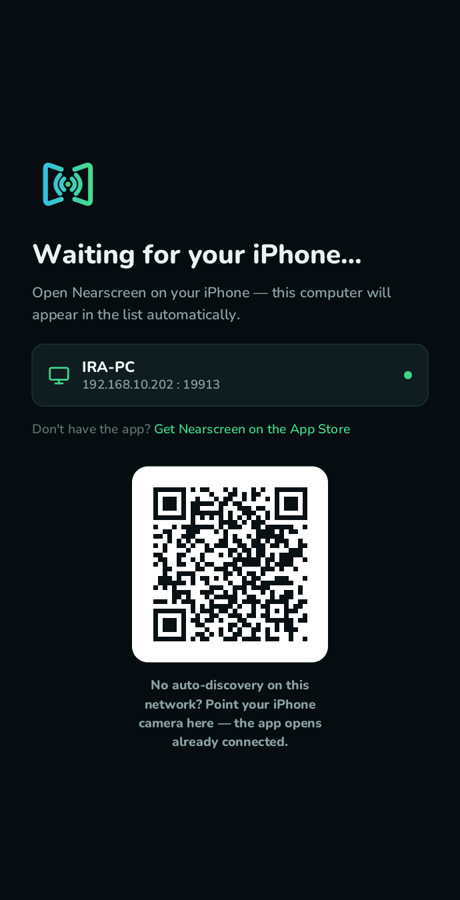
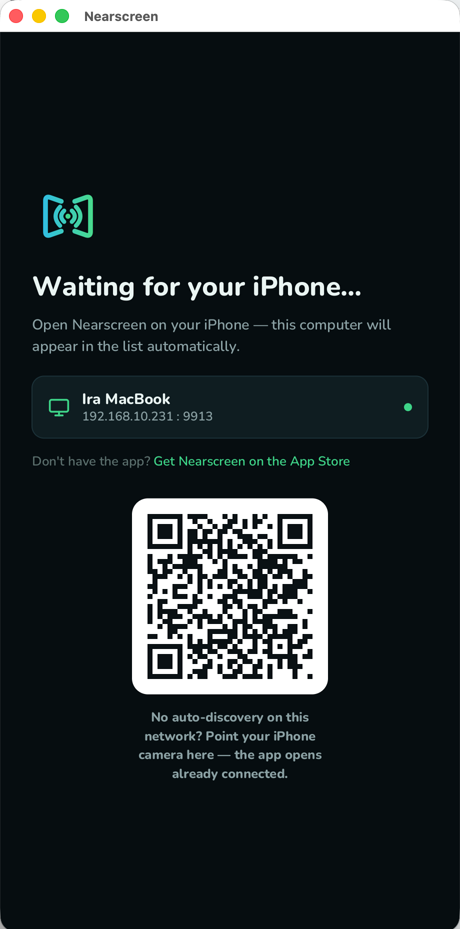
Use a Mac for the waiting screenshot
Taken on the Mac at its own resolution and on the port the receiver actually
listens on by default, which the Windows machine here cannot offer: something
else is using 9913 on it.

diff --git a/src/ui/window.rs b/src/ui/window.rs
@@ -364,7 +364,14 @@ impl ApplicationHandler<UiEvent> for App {
             // A desktop without a tray is unusual but not a reason to stop.
             Err(e) => warn!("no tray icon: {e:#}"),
         }
-        debug!("window ready");
+        if let Some(window) = &self.window {
+            debug!(
+                "window ready at {:?}, {:?} at scale {}",
+                window.outer_position().ok(),
+                window.inner_size(),
+                window.scale_factor()
+            );
+        }
     }
 
     fn user_event(&mut self, _event_loop: &ActiveEventLoop, event: UiEvent) {

diff --git a/README.md b/README.md
@@ -9,9 +9,9 @@ never leaves your local network. You don't have to take our word for it —
 this receiver is all the code that ever touches your video, and you're
 looking at it.
 
-| Waiting for a phone | The first time one connects | Streaming |
+| Waiting for a phone (macOS) | The first time one connects (Windows) | Streaming (Windows) |
 |---|---|---|
-| ![The receiver waiting, showing this computer's name, address and a QR code](docs/waiting.png) | ![The question asked before any screen is shown](docs/consent.png) | ![A phone's screen in the window, with a strip naming it](docs/streaming.png) |
+| ![The receiver waiting, showing this computer's name, its address and a QR code](docs/waiting.png) | ![The question asked before any screen is shown: allow, always allow or decline](docs/consent.png) | ![A phone's screen in the window, with a strip naming the phone and the rate](docs/streaming.png) |
 
 ## Quick start
 
